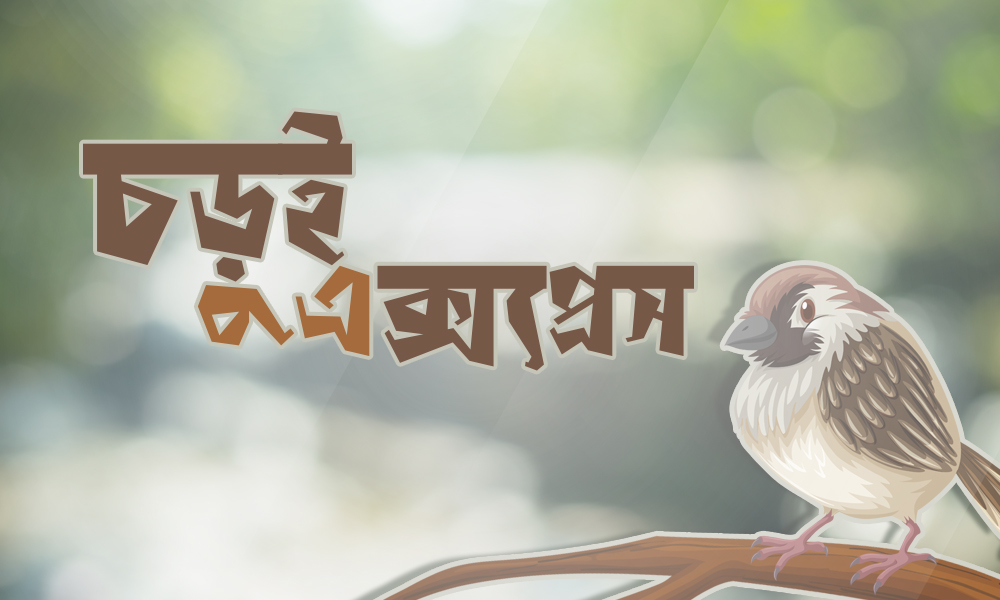
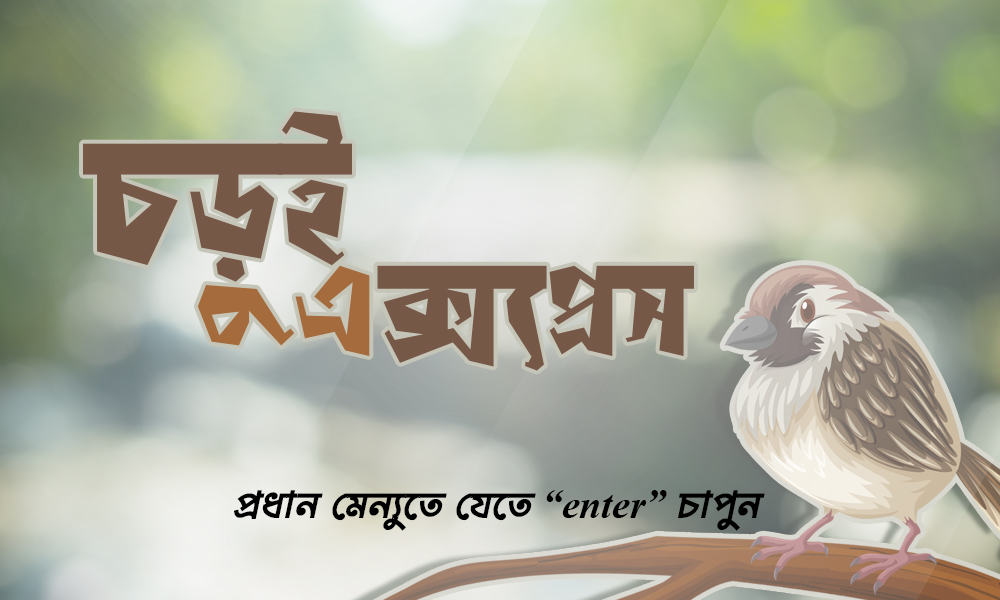
ok

Changed region(s): [[0.217, 0.81, 0.775, 0.9]]

diff --git a/iMain.cpp b/iMain.cpp
@@ -7,8 +7,6 @@ int GameState=0, level=0, bg_music=1, bird_sound=1;
 
 void HomePage(){
     iShowImage(0, 0, "HomePage.jpg");
-    iSetColor(0, 0, 0);
-    iText(350, 100, "Press Enter to go to Main Menu", GLUT_BITMAP_TIMES_ROMAN_24);
 }
 
 void MainMenuPage(){
